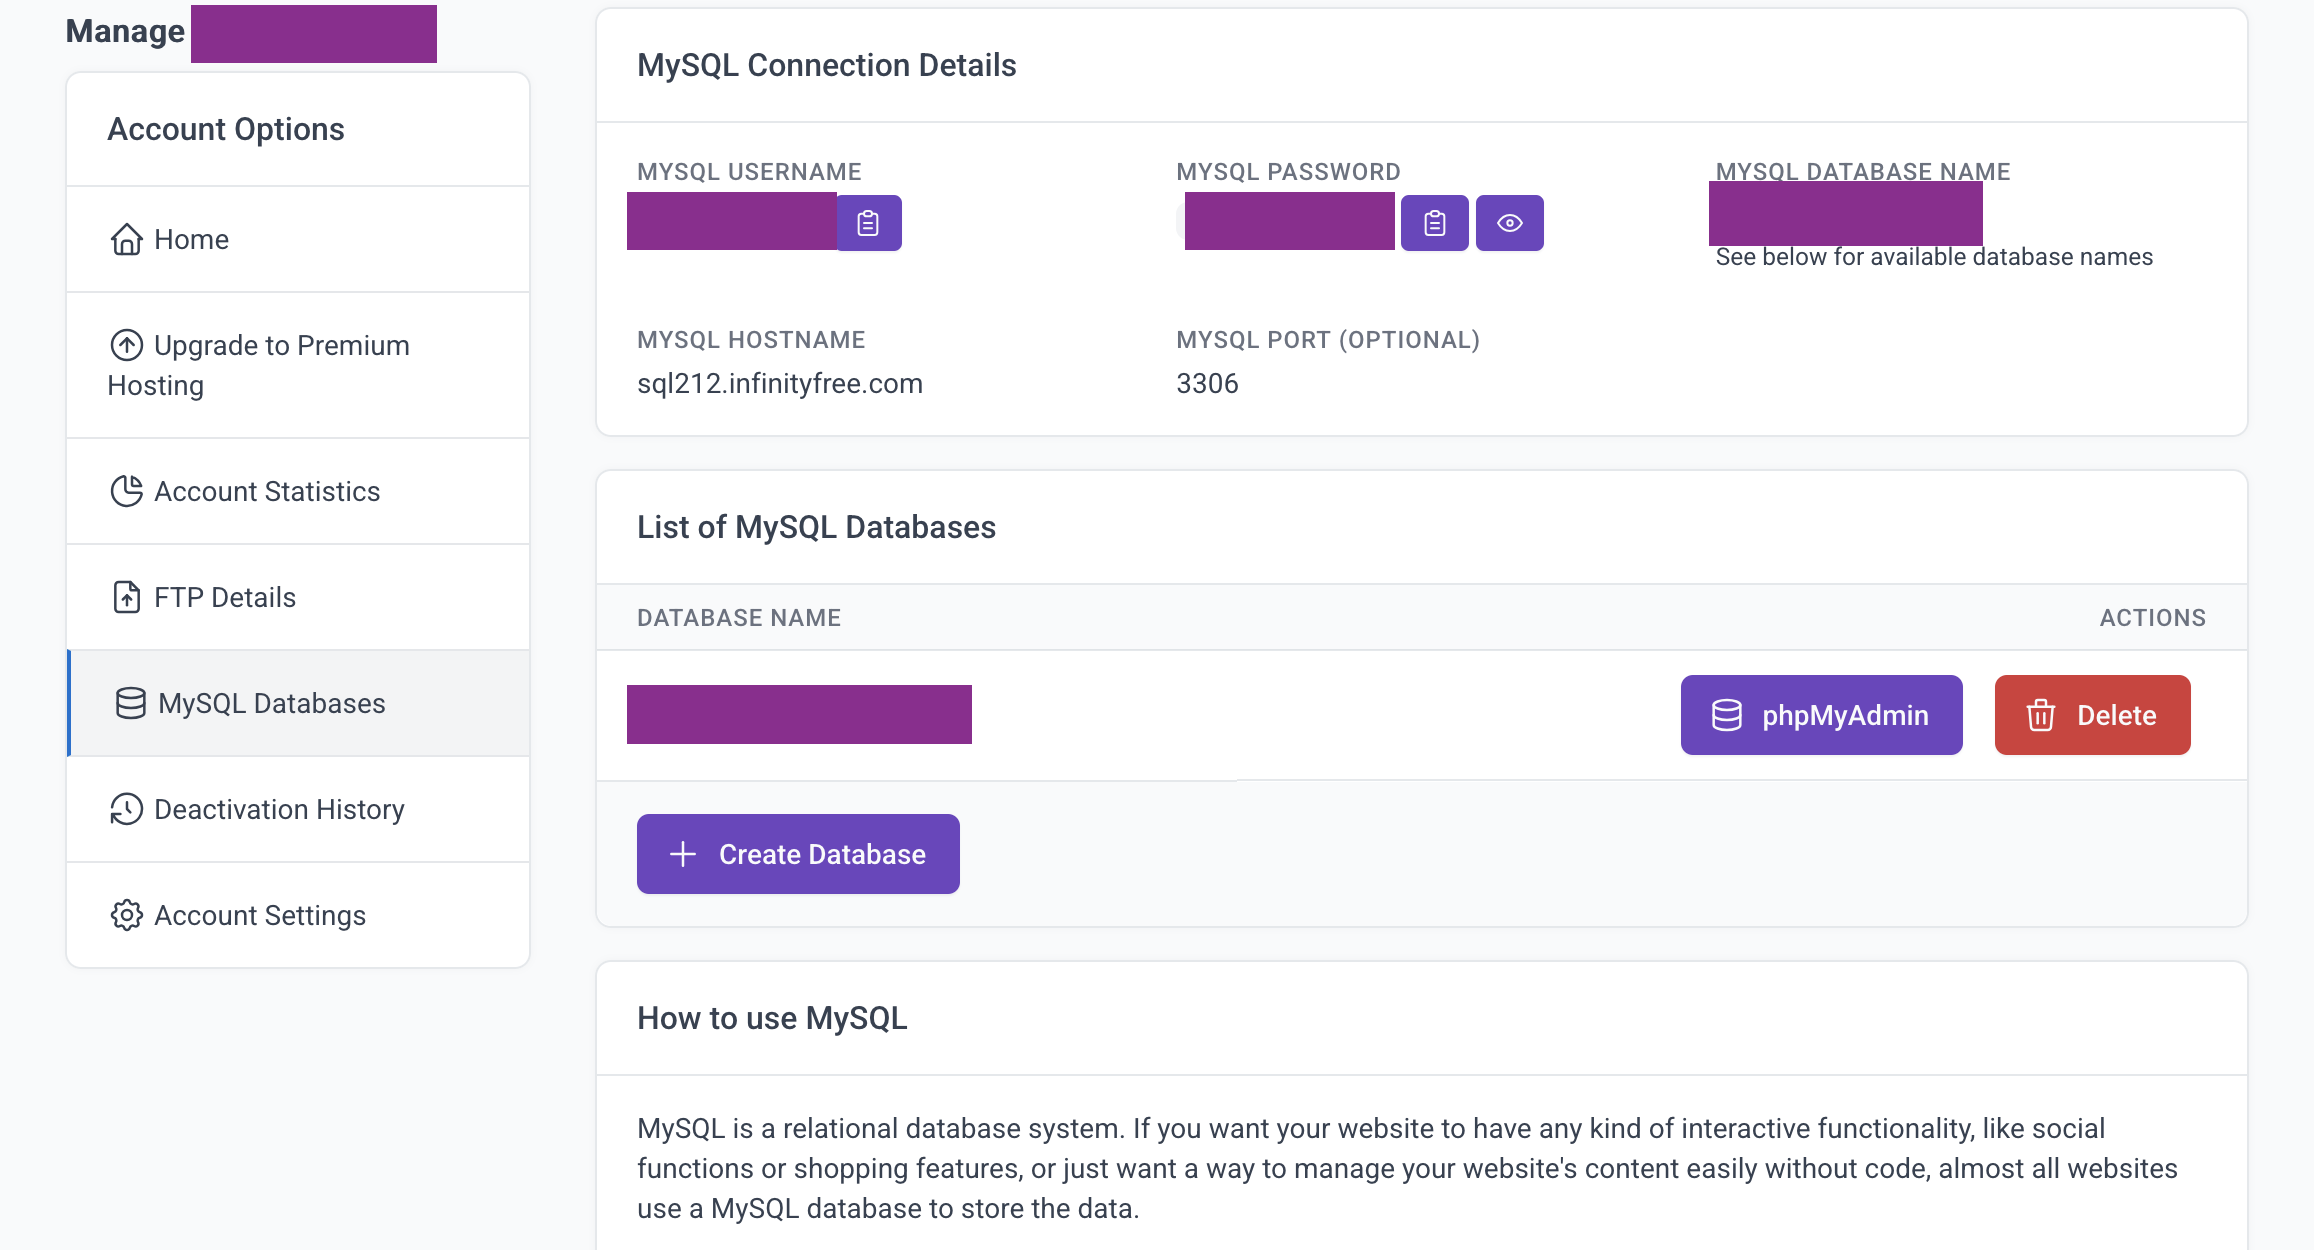
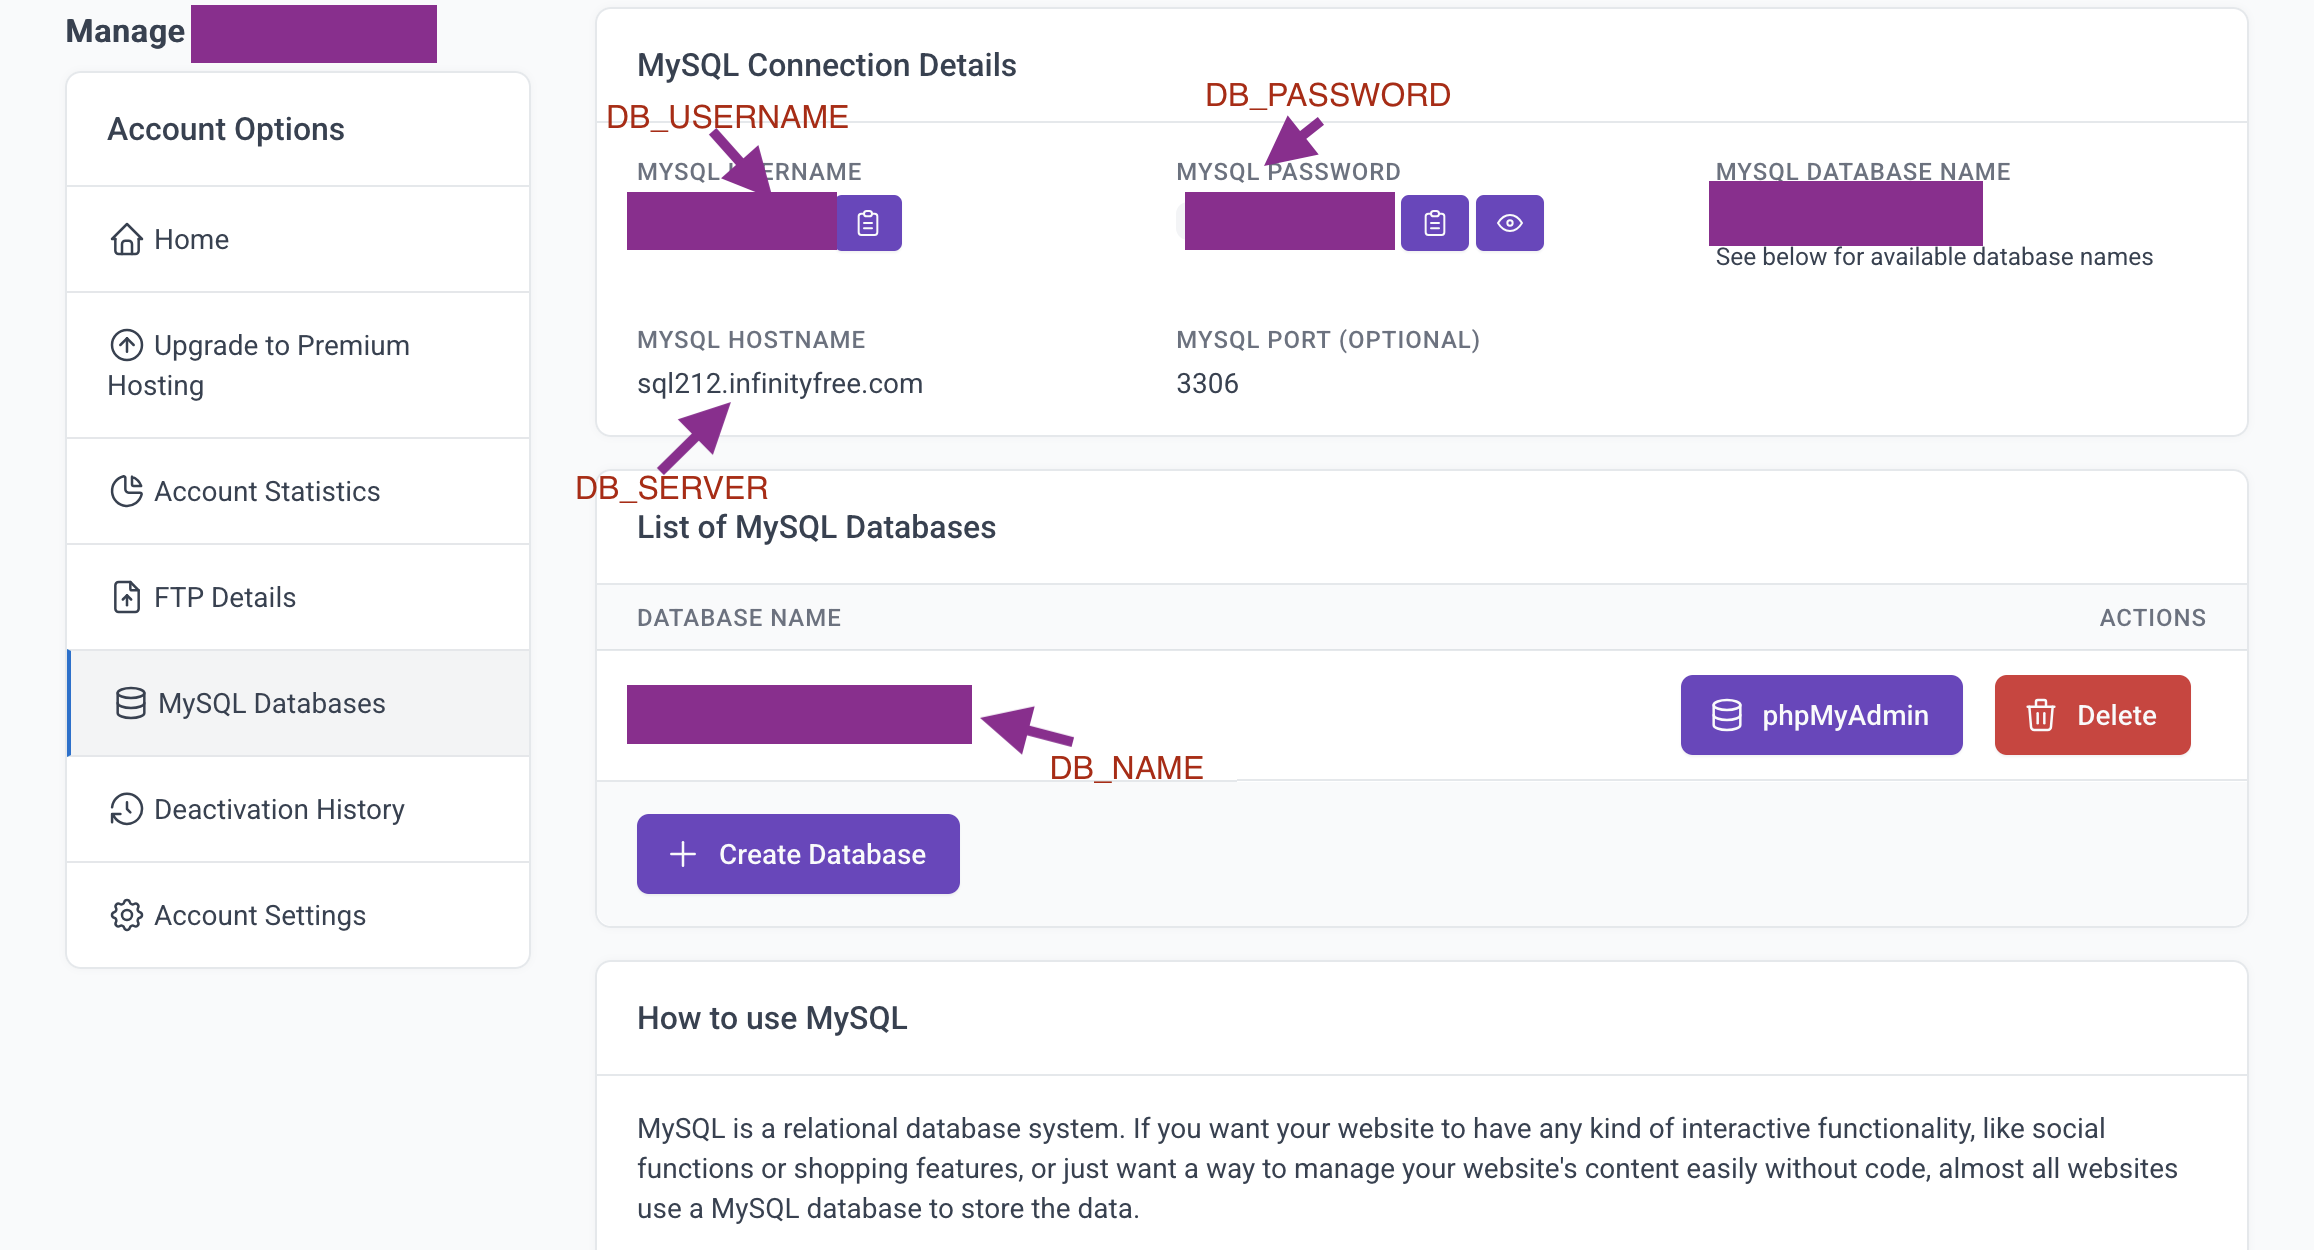
Update readme

diff --git a/README.md b/README.md
@@ -30,3 +30,5 @@ You can deploy the app on [InfinityFree](https://infinityfree.com/). Once you ha
    ```
 
 3. Look up the database credentials for `DB_SERVER`, `DB_USERNAME`, `DB_PASSWORD`, and `DB_NAME` on InfinityFree and change them in your `config.php` according to yours.
+
+   ![infinityfree](https://github.com/privacy-tech-lab/334-privacy-training-web-app/blob/main/infinityfree.png)
